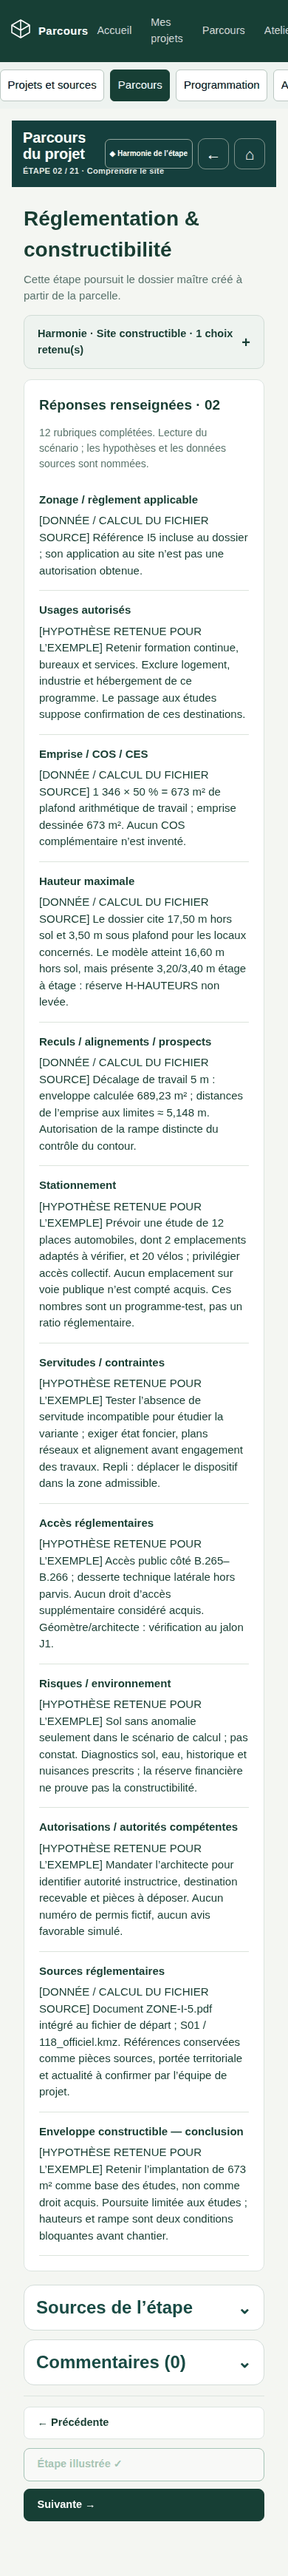
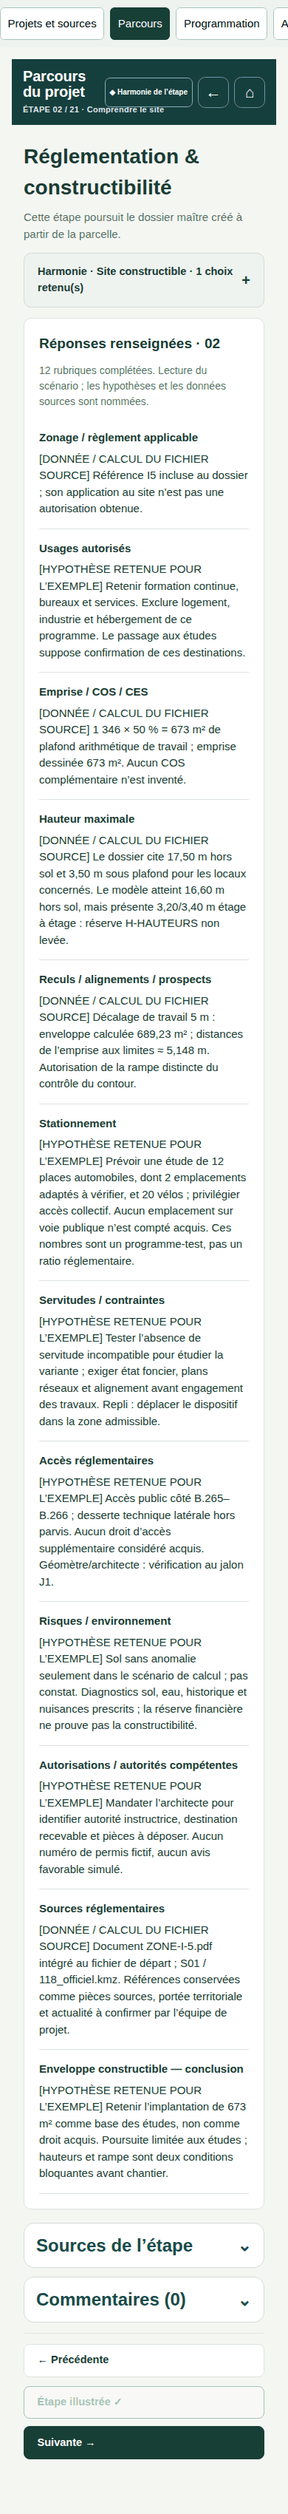
Téléphone : bandeau du prototype seul en tête du Parcours ; chaque changement de vue repart du haut de la page
Évaluation du build déployé (main cbfa6ab, même arbre que la branche validée) sur téléphone, écran par écran face au
prototype :

- Sur téléphone, la barre de navigation de Fadi (repliée en haut) restait au-dessus du bandeau « Parcours du projet » avec la
  rangée des modules : trois en-têtes empilés là où le prototype n'a que son bandeau. Dans le module Parcours, la barre
  s'efface comme la recherche et l'en-tête de projet (« ⌂ » et « ← » du bandeau ramènent aux projets et à la vue
  d'ensemble) ; seule la rangée des modules reste, pour atteindre les six autres modules.
- Le prototype repart du haut de la page à chaque changement de vue (goto(), study(), overview(), mount() remplacent la
  page) ; dans Fadi la navigation par URL gardait le défilement : une étape ouverte depuis le bas de la grille des 21
  cartes s'ouvrait sans son bandeau, « Suivante » et « ← » aussi. `ScrollReset` (App.tsx) remonte la page à chaque
  changement de chemin ou de paramètre `module` / `etape` / `vue` (effet de mise en page, avant les effets qui ciblent un
  panneau) ; `q`, `projet`, `harmonie` et l'état de navigation ne déplacent pas la page ; le retour du navigateur garde sa
  propre position.
- Scénario : vérifications téléphone (barre effacée, rangée des modules conservée ; étape ouverte depuis le bas de la
  grille, « Suivante → », « ← » → page remontée en haut) — 294 vérifications ; captures téléphone refaites ; matrice (rows
[…]

Changed region(s): [[0.0, 0.0, 1.0, 0.9974], [0.8308, 0.8727, 0.8615, 0.935], [0.8, 0.4052, 0.8308, 0.4363]]

diff --git a/apps/web/src/App.tsx b/apps/web/src/App.tsx
@@ -1,6 +1,7 @@
 import { lazy, Suspense } from "react";
 import { Navigate, Route, Routes } from "react-router-dom";
 import { useAuth } from "./lib/auth-context";
+import { ScrollReset } from "./lib/scroll-reset";
 import { RequireAuth } from "./routes/RequireAuth";
 import { LoginPage } from "./routes/LoginPage";
 import { RegisterPage } from "./routes/RegisterPage";
@@ -34,49 +35,53 @@ export function App() {
   }
 
   return (
-    <Routes>
-      <Route path="/connexion" element={<LoginPage />} />
-      <Route path="/inscription" element={<RegisterPage />} />
+    <>
+      {/* Avant les routes : sa remise à zéro (effet de mise en page) précède les effets des écrans qui ciblent un panneau. */}
+      <ScrollReset />
+      <Routes>
+        <Route path="/connexion" element={<LoginPage />} />
+        <Route path="/inscription" element={<RegisterPage />} />
 
-      <Route
-        element={
-          <RequireAuth>
-            <AppShell />
-          </RequireAuth>
-        }
-      >
-        <Route path="/accueil" element={<AccueilPage />} />
-        <Route path="/projets" element={<ProjectsPage />} />
         <Route
-          path="/projets/:projectId"
           element={
-            <Suspense fallback={<Loading />}>
-              <ProjectShell />
-            </Suspense>
+            <RequireAuth>
+              <AppShell />
+            </RequireAuth>
           }
-        />
-        <Route path="/harmonie" element={<HarmoniePage />} />
-        <Route
-          path="/bibliotheque/batiments"
-          element={
-            <Suspense fallback={<Loading />}>
-              <BuildingLibraryPage />
-            </Suspense>
-          }
-        />
-        <Route
-          path="/bibliotheque/batiments/:id"
-          element={
-            <Suspense fallback={<Loading />}>
-              <BuildingCasePage />
-            </Suspense>
-          }
-        />
-        <Route path="/parametres" element={<ParametresPage />} />
-      </Route>
+        >
+          <Route path="/accueil" element={<AccueilPage />} />
+          <Route path="/projets" element={<ProjectsPage />} />
+          <Route
+            path="/projets/:projectId"
+            element={
+              <Suspense fallback={<Loading />}>
+                <ProjectShell />
+              </Suspense>
+            }
+          />
+          <Route path="/harmonie" element={<HarmoniePage />} />
+          <Route
+            path="/bibliotheque/batiments"
+            element={
+              <Suspense fallback={<Loading />}>
+                <BuildingLibraryPage />
+              </Suspense>
+            }
+          />
+          <Route
+            path="/bibliotheque/batiments/:id"
+            element={
+              <Suspense fallback={<Loading />}>
+                <BuildingCasePage />
+              </Suspense>
+            }
+          />
+          <Route path="/parametres" element={<ParametresPage />} />
+        </Route>
 
-      <Route path="/" element={<Navigate to="/accueil" replace />} />
-      <Route path="*" element={<Navigate to="/accueil" replace />} />
-    </Routes>
+        <Route path="/" element={<Navigate to="/accueil" replace />} />
+        <Route path="*" element={<Navigate to="/accueil" replace />} />
+      </Routes>
+    </>
   );
 }

diff --git a/apps/web/src/lib/scroll-reset.tsx b/apps/web/src/lib/scroll-reset.tsx
@@ -1,0 +1,35 @@
+import { useLayoutEffect, useRef } from "react";
+import { useLocation, useNavigationType } from "react-router-dom";
+
+/**
+ * Remontée en haut de page à chaque changement de vue, comme dans le prototype
+ * où `goto()`, `study()`, `overview()` et `mount()` remplacent la page et
+ * repartent du bandeau : ouvrir une étape depuis une carte du bas de la grille,
+ * « Suivante », « ← » vers la vue d'ensemble, changer de module ou de page.
+ *
+ * Une vue est identifiée par le chemin et les paramètres qui la désignent
+ * (`module`, `etape`, `vue`) ; les autres paramètres (`q`, `projet`,
+ * `harmonie`) et l'état de navigation (messages transmis) ne déplacent pas la
+ * page. Le retour / l'avance du navigateur (POP) est laissé à sa propre
+ * restauration de position.
+ */
+const VIEW_KEYS = ["module", "etape", "vue"] as const;
+
+export function viewKey(pathname: string, search: string): string {
+  const params = new URLSearchParams(search);
+  return [pathname, ...VIEW_KEYS.map((k) => `${k}=${params.get(k) ?? ""}`)].join("&");
+}
+
+export function ScrollReset(): null {
+  const { pathname, search } = useLocation();
+  const navigationType = useNavigationType();
+  const key = viewKey(pathname, search);
+  const previous = useRef(key);
+  useLayoutEffect(() => {
+    if (previous.current === key) return;
+    previous.current = key;
+    if (navigationType === "POP") return;
+    window.scrollTo({ top: 0, left: 0, behavior: "instant" as ScrollBehavior });
+  }, [key, navigationType]);
+  return null;
+}

diff --git a/apps/web/src/style.css b/apps/web/src/style.css
@@ -1066,7 +1066,10 @@ h3 {
   margin: 0 0 14px;
 }
 @media (max-width: 850px) {
-  /* Sur téléphone, le bandeau du prototype tient lieu d'en-tête du projet : la barre de recherche et l'en-tête de projet de Fadi s'effacent (la navigation des modules reste). */
+  /* Sur téléphone, le bandeau du prototype tient lieu d'en-tête : la barre de navigation de Fadi (repliée en haut sur téléphone),
+     la recherche et l'en-tête de projet s'effacent ; « ⌂ » et « ← » du bandeau ramènent aux projets et à la vue d'ensemble, comme
+     dans le prototype. Seule la rangée des modules reste, pour atteindre les six autres modules. */
+  body:has(.module-content-parcours) .app-sidebar,
   body:has(.module-content-parcours) .app-topbar,
   body:has(.module-content-parcours) .project-header {
     display: none;

diff --git a/docs/migration/matrix.md b/docs/migration/matrix.md
@@ -15,8 +15,8 @@ commencé.
 | Fonction (HTML) | Décision | Emplacement Fadi | État | Preuve |
 |---|---|---|---|---|
 | Registre des 21 étapes, numérotation 01–21, phases, cibles de transmission | Extraire | `apps/api/src/data/parcours-steps.json` (avec `transmitsTo`) → `GET /projects/:id/steps` | ✅ | `app.test.ts` « seeds the 21 real steps », « serves each step with the prototype's real form, transmission targets… » |
-| Vue d'ensemble (`overview()`) : bandeau « Parcours du projet » (← ⌂), « ← Projets » / « Exemples », kicker « PARCOURS DU PROJET », documents de base intégrés, titre « Étude du potentiel de la parcelle » et sous-titre, progression « n / 21 étapes terminées » (barre), phases, **grille des 21 étapes sur 3 colonnes** (`overview-grid` / `overview-step` : numéro, phase, intitulé, terminée = liseré haut, « · à réexaminer ») — sur téléphone, 3 colonnes de 145 px minimum à défilement horizontal | **Conserver** (markup et feuille du prototype, repris tels quels dans le module) | `modules/parcours/ParcoursModule.tsx` (`StageStrip`, `StepCard` = `overview-step`), `style.css` (bloc « Parcours du projet — présentation du prototype ») | ✅ | e2e (21 `overview-step`, téléphone : bandeau en tête, grille 3 colonnes défilante, en-tête de projet et recherche effacés) ; `captures/webapp/new-00-overview-{desktop,mobile}.png` vs `captures/reference/00-overview-{desktop,mobile}.png` |
-| `study()` : bandeau « Parcours du projet · ÉTAPE NN / 21 · phase » avec « ◈ Harmonie de l’étape » (ouvre le panneau), « ← » (vue d'ensemble), « ⌂ » (projets) ; titre et intro de l'étape ; une étape à la fois, Précédente / Suivante, URL `?etape=N` | **Conserver** (bandeau `header.top.atelier-stage-header` du prototype) + Adapter (URL) | `ParcoursModule.tsx` → `StageStrip`, `StepDetail` (`.work`) | ✅ | e2e (bandeau, « ◈ Harmonie de l’étape » → panneau ouvert) ; rechargement conservant l'étape ; `captures/webapp/02-{desktop,mobile}.png` vs `captures/reference/02-{desktop,mobile}.png` |
+| Vue d'ensemble (`overview()`) : bandeau « Parcours du projet » (← ⌂), « ← Projets » / « Exemples », kicker « PARCOURS DU PROJET », documents de base intégrés, titre « Étude du potentiel de la parcelle » et sous-titre, progression « n / 21 étapes terminées » (barre), phases, **grille des 21 étapes sur 3 colonnes** (`overview-grid` / `overview-step` : numéro, phase, intitulé, terminée = liseré haut, « · à réexaminer ») — sur téléphone, 3 colonnes de 145 px minimum à défilement horizontal | **Conserver** (markup et feuille du prototype, repris tels quels dans le module) | `modules/parcours/ParcoursModule.tsx` (`StageStrip`, `StepCard` = `overview-step`), `style.css` (bloc « Parcours du projet — présentation du prototype ») | ✅ | e2e (21 `overview-step`, téléphone : bandeau en tête, grille 3 colonnes défilante, barre de navigation, en-tête de projet et recherche de Fadi effacés) ; `captures/webapp/new-00-overview-{desktop,mobile}.png` vs `captures/reference/00-overview-{desktop,mobile}.png` |
+| `study()` : bandeau « Parcours du projet · ÉTAPE NN / 21 · phase » avec « ◈ Harmonie de l’étape » (ouvre le panneau), « ← » (vue d'ensemble), « ⌂ » (projets) ; titre et intro de l'étape ; une étape à la fois, Précédente / Suivante, URL `?etape=N` ; **chaque changement de vue repart du haut de la page** (`goto()`, `study()`, `overview()`, `mount()` remplacent la page : une étape ouverte depuis le bas de la grille, « Suivante », « ← » montrent le bandeau) | **Conserver** (bandeau `header.top.atelier-stage-header` du prototype ; remontée en haut de page à chaque changement de chemin ou de `module` / `etape` / `vue` — `lib/scroll-reset.tsx`, le retour du navigateur gardant sa propre position) + Adapter (URL) | `ParcoursModule.tsx` → `StageStrip`, `StepDetail` (`.work`) ; `App.tsx` → `ScrollReset` | ✅ | e2e (bandeau, « ◈ Harmonie de l’étape » → panneau ouvert ; téléphone : étape ouverte depuis le bas de la grille, « Suivante → », « ← » → page remontée en haut) ; rechargement conservant l'étape ; `captures/webapp/02-{desktop,mobile}.png` vs `captures/reference/02-{desktop,mobile}.png` |
 | « Marquer terminée » / « Terminée ✓ » ; progression issue de l'état des étapes uniquement | Conserver | `PATCH /projects/:id/steps/:n {status}` ; `AccueilPage.tsx` (phases et prochaine étape depuis `listSteps`) | ✅ | e2e « 1 / 21 étapes terminées » ; `captures/webapp/00-accueil-desktop.png` |
 | Formulaires métier `BIZ_SCHEMAS` (17 étapes : 02–09, 12–20), intros, types text / textarea / number / date, sauvegarde | Extraire | `apps/api/src/data/parcours-forms.json` ; `StepForm.tsx` ; `PATCH …/steps/:n {fields}` validé par type | ✅ | `app.test.ts` « stores form answers… » ; e2e étapes 02, 14, 17, 19 ; rechargement |
 | Synthèse / livrable (21) et synthèses des étapes outillées (01, 10, 11) | Extraire | champ `summary` (`parcours-forms.json`) ; les outils eux-mêmes : outil Parcelle (01) et Atelier natif (10, 11), section 3 | ✅ (texte de synthèse du prototype, avec l'outil de l'étape en place) | `app.test.ts` « serves each step… » ; e2e (étape 01 : outil Parcelle ; étape 10 : Atelier monté dans l'étape) |
@@ -117,7 +117,7 @@ Reprise demandée après la revue des captures : les fonctions étaient portées
 | Étape 01 | Outil Parcelle, panneau Harmonie dans sa colonne gauche (après « Construction ») | outil complet ; panneau : données du site, schéma, « Voir le schéma », MapTiler, arbitrages (copies) | parcelle → modèle (`acceptParcel`), observations du site, altimétrie | ✅ (axe : panneau hors audit, dans le cadre) |
 | Étapes 10 / 11 et module Atelier | Page « Atelier Architectural » (bandeau, barre d'outils, dessin sur toute la largeur), titre replié sous le dessin ; sous-page « Harmonie du bâtiment » | moteur natif complet (non réécrit), Harmonie, programme lié, bilan | modèle natif (révisions, file hors-ligne), copie automatique de la référence | ✅ |
 | Étapes 06 / 07 | Répartition programmatique ; référence : « Répartition renseignée et liée au modèle » | éditeurs du programme, fiches, CSV, copie, transfert (07) | programme ↔ modèle | ✅ (inchangé) |
-| Téléphone | Bandeau en tête, en-tête de projet et recherche effacés ; grille 3 colonnes défilante ; étape : mêmes blocs que le prototype ; Atelier plein écran | mêmes commandes | — | ✅ |
+| Téléphone | Bandeau en tête (barre de navigation, en-tête de projet et recherche de Fadi effacés ; seule la rangée des modules reste au-dessus) ; grille 3 colonnes défilante ; étape : mêmes blocs que le prototype, ouverte depuis le haut de la page ; Atelier plein écran | mêmes commandes ; « ← » / « ⌂ » du bandeau | — | ✅ |
 | Autres modules (Programmation, Analyses, Documents, Collaboration, Harmonie, Paramètres) | écrans de Fadi (sans équivalent d'écran dans le prototype) | — | — | 🟡 présentation propre à Fadi (fonctions du prototype dispersées, section 4) |
 
 Reste à faire sur ce lot : modularisation du moteur de l'Atelier (scripts classiques extraits tels quels, encapsulés — lot à part, hors de cette reprise) ; comparaison fine des écrans 06 / 07 / 14 / 17 / 19 capture contre capture (disposition déjà celle du prototype pour les formulaires `biz-card`).
@@ -160,7 +160,7 @@ Reste à faire sur ce lot : modularisation du moteur de l'Atelier (scripts class
 - **Arbitrages de l'exemple rejoués, pas recopiés** : le prototype arbitrait l'exemple à l'initialisation (`makeProject` : `decide('adapted')` sur le parti illustré avec la décision pour texte, `dismissed` sur les autres, `adapted` sur chaque local avec sa réponse) ; Fadi rejoue ces arbitrages à l'import sur les propositions calculées du modèle importé (`applyExampleDecisions`), puis pose les empreintes — les mêmes règles serveur s'appliquent ensuite (remplacement, version, péremption). Les destinations supplémentaires d'un choix (`targets.push(3)`) sont portées par le choix lui-même (`HarmonieProposalDecision.targets`), jamais par la définition de l'étape.
 - **Premier contact : une opération serveur montre son état, la surface tactile est l'élément entier** : le prototype copiait un exemple en `localStorage` et l'ouvrait aussitôt ; dans Fadi la copie est faite par le serveur (étapes, modèle, parcelle, documents de base) et dure plusieurs secondes — bien plus derrière un tunnel ou un réseau mobile. Un bouton muet pendant ce temps se lit comme « rien ne se passe » : l'état en cours est affiché sur la carte touchée avec ce qui est copié, l'échec est dit en clair et retentable, l'arrivée est annoncée dans le projet ouvert. La même règle vaut pour l'accueil sans projet (l'import est la première action proposée). Sur téléphone, l'en-tête du projet et la navigation des modules sont compactés pour que la première vue montre le contenu (cartes d'étape), pas le chrome.
 - **Panneau Harmonie de l'étape 01 dans la colonne gauche de l'outil Parcelle** (`ParcoursSectionsV82.place` du prototype : après le pli « Construction ») : Fadi crée l'emplacement au même endroit dans le document de l'outil, y copie ses feuilles de style limitées à cet emplacement (`@scope`, variables reportées) et y rend le panneau React par un portail (`ParcelleTool` : `harmonie`) — les événements, l'état et les requêtes restent ceux de l'application ; sans `@scope` (navigateur ancien), le panneau reste sous l'outil. L'outil lui-même n'est pas modifié.
-- **Enveloppe de Fadi et présentation du prototype** : les 7 modules gardent la navigation de Fadi (barre latérale, en-tête du projet, modules) ; à l'intérieur du module Parcours, l'écran est celui du prototype (bandeau `header.top`, `overview`, `work`, police Arial et fond #f4f6f2, feuille principale reprise telle quelle). Sur téléphone, le bandeau tient lieu d'en-tête : la recherche et l'en-tête de projet de Fadi s'effacent, la navigation des modules reste. Aux étapes 10 / 11 et dans le module Atelier, la page est l'Atelier Architectural du prototype (`body.atelier-immersive` : barre latérale, en-tête et navigation effacés, toute la largeur au dessin ; « ← » du bandeau ramène au parcours, « ⌂ » aux projets ; titre et intro de l'étape repliés sous le dessin — `stage10-fold`).
+- **Enveloppe de Fadi et présentation du prototype** : les 7 modules gardent la navigation de Fadi (barre latérale, en-tête du projet, modules) ; à l'intérieur du module Parcours, l'écran est celui du prototype (bandeau `header.top`, `overview`, `work`, police Arial et fond #f4f6f2, feuille principale reprise telle quelle). Sur téléphone, le bandeau tient lieu d'en-tête : la barre de navigation de Fadi (repliée en haut sur téléphone), la recherche et l'en-tête de projet s'effacent — « ⌂ » et « ← » du bandeau ramènent aux projets et à la vue d'ensemble, comme dans le prototype — et seule la rangée des modules reste, pour atteindre les six autres modules ; le sous-titre du bandeau de la vue d'ensemble porte le code et le nom du projet (ajout de Fadi, l'en-tête de projet étant effacé). Chaque changement de vue repart du haut de la page, comme les fonctions `goto()` / `study()` / `overview()` / `mount()` du prototype qui remplacent la page (`ScrollReset` : chemin ou paramètre `module` / `etape` / `vue` ; le retour du navigateur garde sa propre position). Aux étapes 10 / 11 et dans le module Atelier, la page est l'Atelier Architectural du prototype (`body.atelier-immersive` : barre latérale, en-tête et navigation effacés, toute la largeur au dessin ; « ← » du bandeau ramène au parcours, « ⌂ » aux projets ; titre et intro de l'étape repliés sous le dessin — `stage10-fold`).
 
 ## Limites restantes
 
